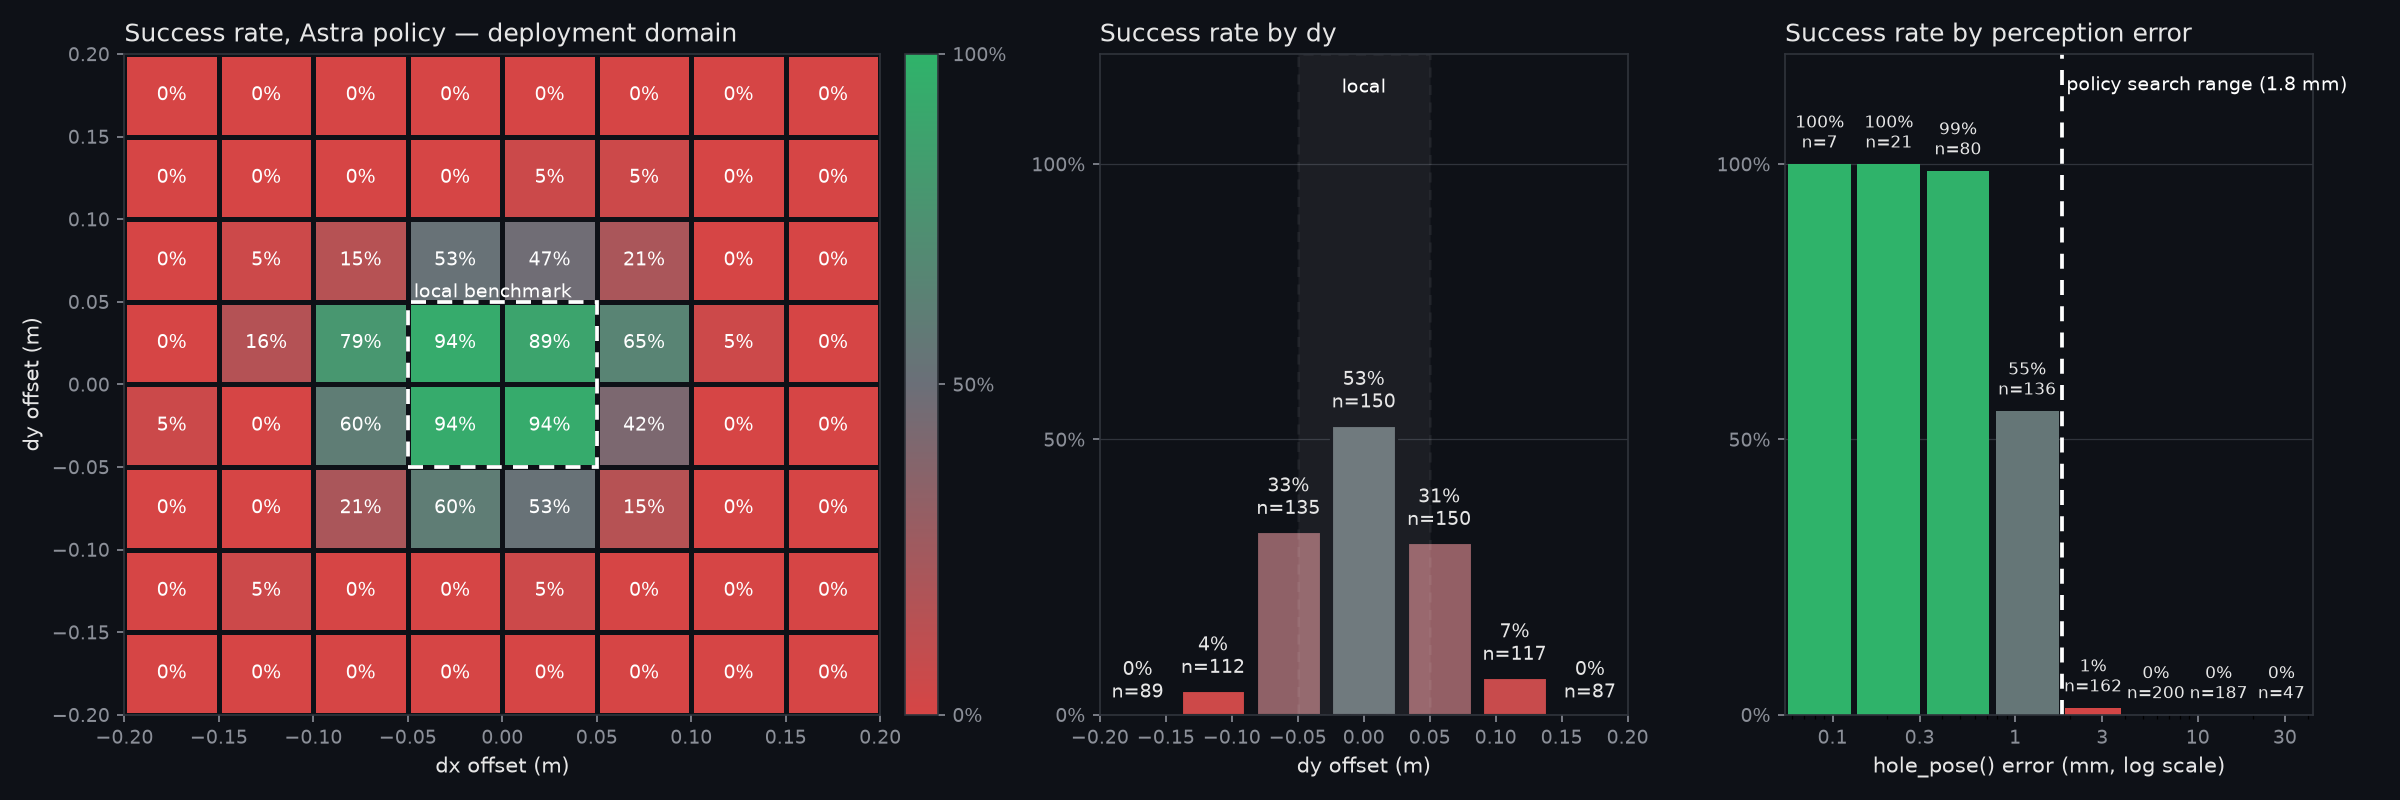
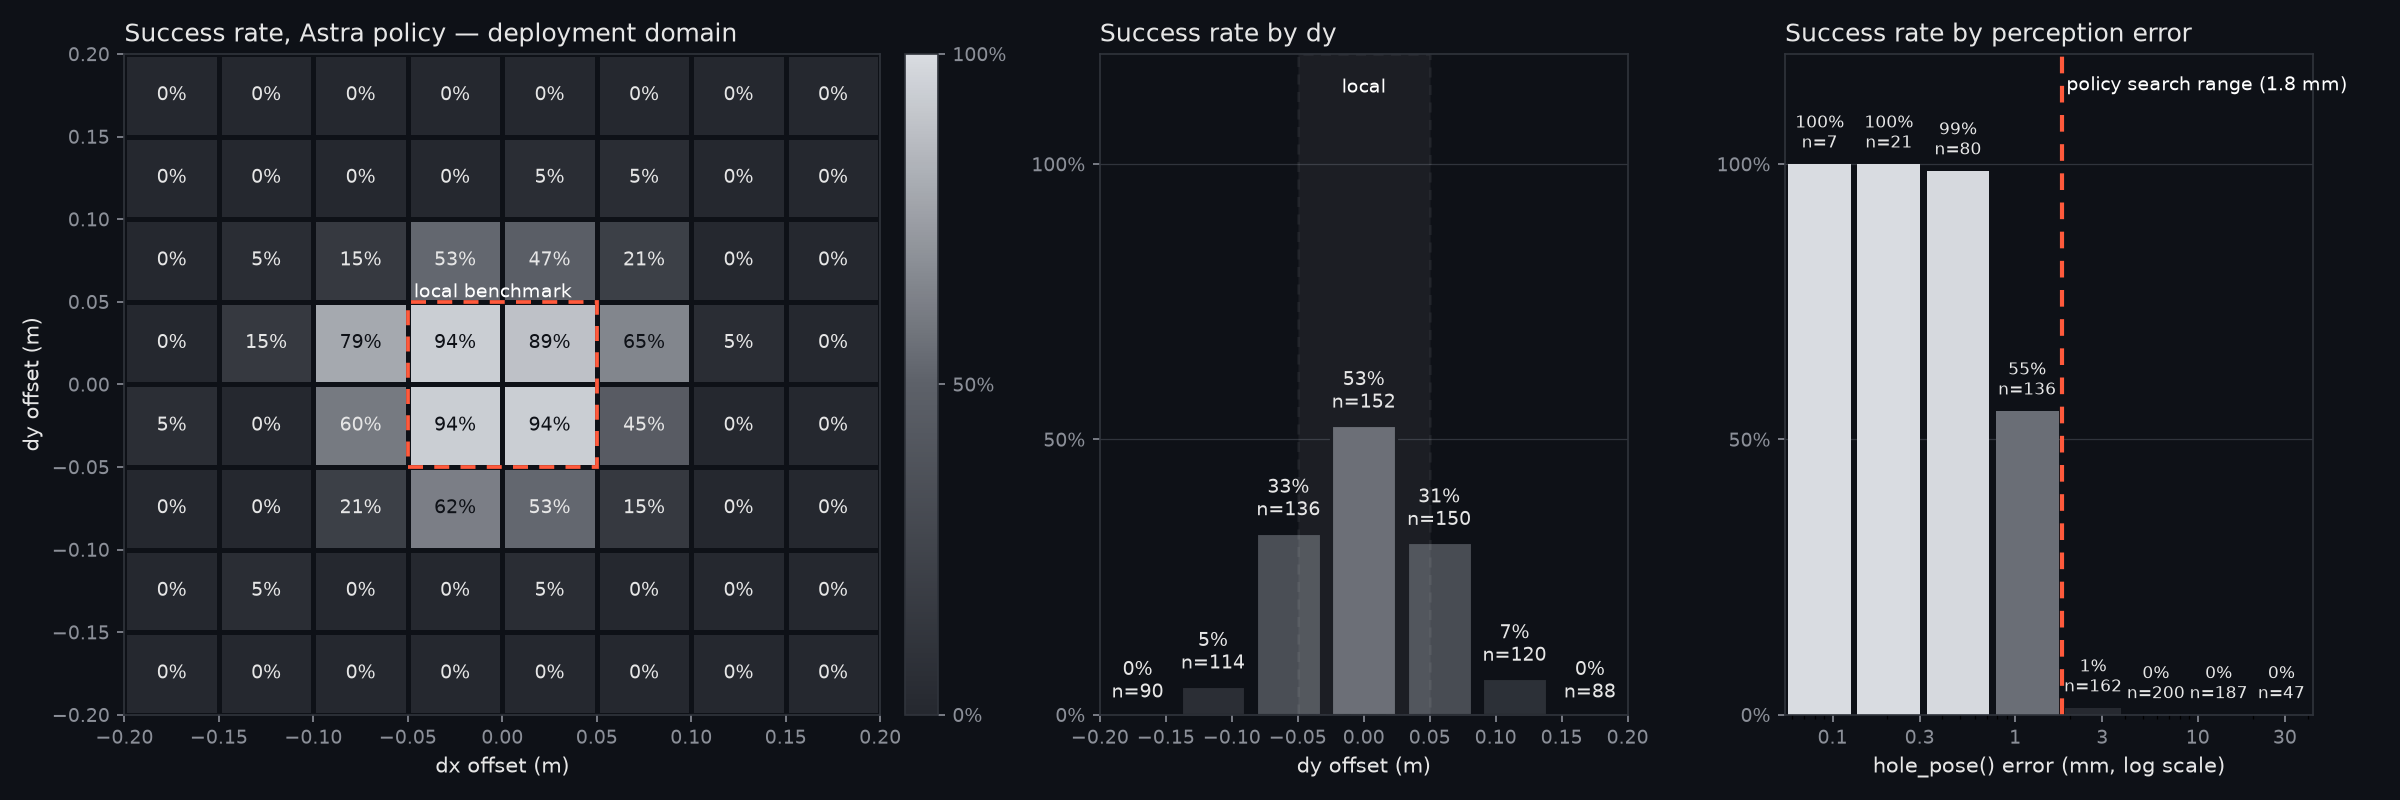
UI pass: hierarchy over symmetry (hero outside-box number, AIC pull-quote, axiom 1 subtitle), one accent colour, neutral heatmap, fewer boxes; Ditto first-attempt expander

Changed region(s): [[0.0312, 0.0625, 0.4062, 0.9062], [0.7188, 0.1875, 0.875, 0.9062], [0.4688, 0.5938, 0.6562, 0.9062]]

diff --git a/app/streamlit_app.py b/app/streamlit_app.py
@@ -35,22 +35,25 @@ st.markdown(
 [data-testid="stSidebar"], [data-testid="collapsedControl"] {display: none;}
 .block-container {padding-top: 1rem; padding-bottom: 1rem; max-width: 1280px;}
 h1 {margin-bottom: 0 !important; font-size: 2.3rem !important; padding-top: 0 !important;}
-p.gh-sub, .stMarkdown p.gh-sub {color: #e6e6e6; font-size: 1.25rem !important; margin: 0 0 .2rem 0;}
-p.gh-back, .stMarkdown p.gh-back {color: #c3c7cf; font-size: 1.1rem !important; margin-bottom: .6rem;}
-.gh-tile {background: #1a1d24; border-radius: 8px; padding: .7rem 1rem;}
+p.gh-sub, .stMarkdown p.gh-sub {color: #8b8f98; font-size: 1rem !important; margin: 0 0 .7rem 0;}
+.gh-pull {color: #e6e6e6; font-size: 1.3rem; line-height: 1.45; border-left: 3px solid #5d6169;
+          padding: .1rem 0 .1rem 1rem; margin: 0 0 1rem 0;}
+.gh-pull b {font-size: 1.55rem;}
+.gh-pull span {color: #8b8f98; font-size: 1rem;}
 .gh-tile .lbl {color: #8b8f98; font-size: .8rem; text-transform: uppercase; letter-spacing: .04em;}
-.gh-tile .val {font-size: 2.6rem; font-weight: 700; line-height: 1.1;}
+.gh-tile .val {font-size: 2rem; font-weight: 600; line-height: 1.1; color: #c3c7cf;}
+.gh-tile.hero .val {font-size: 4.2rem; font-weight: 700;}
 .gh-tile .n {color: #8b8f98; font-size: .8rem;}
 .gh-ph {background: #2a2d34; color: #8b8f98; border-radius: 8px; height: 170px;
         display: flex; align-items: center; justify-content: center; text-align: center; padding: 1rem;}
 .gh-report {font-size: 1rem; line-height: 1.55;}
 .gh-src {color: #8b8f98; font-size: .75rem;}
-.gh-foot {color: #8b8f98; font-size: .85rem; border-top: 1px solid #30343c; padding-top: .6rem; margin-top: .8rem;}
+.gh-foot {color: #8b8f98; font-size: .85rem; padding-top: .6rem; margin-top: .8rem;}
 video {max-height: 170px;}
-.gh-badge {color: #0e1117; font-weight: 600; border-radius: 4px; padding: 0 .35rem; font-size: .75rem;}
+.gh-badge {color: #e6e6e6; background: #30343c; font-weight: 600; border-radius: 4px; padding: 0 .35rem; font-size: .75rem;}
 .gh-cap {color: #8b8f98; font-size: .8rem; line-height: 1.5;}
-.gh-head {color: #e6e6e6; font-size: .95rem; border-left: 3px solid #d64545; padding: .2rem .6rem; margin: .3rem 0 .5rem 0;}
-.gh-quote {color: #e6e6e6; border-left: 3px solid #6b6f78; margin: 0 0 .6rem 0; padding: .2rem .7rem;}
+.gh-head {color: #e6e6e6; font-size: .95rem; margin: .3rem 0 .5rem 0;}
+.gh-quote {color: #e6e6e6; font-style: italic; margin: 0 0 .6rem 0; padding: 0;}
 .gh-quote span {color: #8b8f98; font-size: .8rem;}
 h3 {padding: .4rem 0 .3rem 0 !important;}
 </style>
@@ -58,15 +61,11 @@ h3 {padding: .4rem 0 .3rem 0 !important;}
     unsafe_allow_html=True,
 )
 
-GREEN, RED, GREY = "#2fb36a", "#d64545", "#8b8f98"
-# One fixed colour per failure mode (hex for badges, Streamlit colour name for radio labels).
-MODE_COLOR = {"miss": ("#d64545", "red"), "jam": ("#e0a030", "orange"), "collision": ("#a874d8", "violet"),
-              "timeout": ("#8b8f98", "gray"), "api_error": ("#5b5f68", "gray"), "": (GREEN, "green")}
+from analysis.coverage import ACCENT  # noqa: E402  the one accent colour; everything else is neutral
 
 
 def _badge(mode: str) -> str:
-    hexc = MODE_COLOR.get(mode, (GREY, "gray"))[0]
-    return f'<span class="gh-badge" style="background:{hexc}">{html.escape(mode or "success")}</span>'
+    return f'<span class="gh-badge">{html.escape(mode or "success")}</span>'
 
 
 def placeholder(msg: str) -> None:
@@ -290,10 +289,11 @@ def show_transcript(path) -> None:
             st.code(act, language="json", wrap_lines=True)
 
 
-def tile(col, label: str, value: float, n: int, color: str) -> None:
+def tile(col, label: str, value: float, n: int, hero: bool = False) -> None:
     v = "—" if pd.isna(value) else f"{value:.0%}"
-    col.markdown(f'<div class="gh-tile"><div class="lbl">{label}</div>'
-                 f'<div class="val" style="color:{color}">{v}</div><div class="n">n = {n}</div></div>',
+    style = f' style="color:{ACCENT}"' if hero else ""
+    col.markdown(f'<div class="gh-tile{" hero" if hero else ""}"><div class="lbl">{label}</div>'
+                 f'<div class="val"{style}>{v}</div><div class="n">n = {n}</div></div>',
                  unsafe_allow_html=True)
 
 
@@ -328,15 +328,16 @@ lb, db = default_boxes()
 rep = coverage_report(local_df, deploy_df, lb, db)
 
 st.title("GapHunter")
-st.markdown('<p class="gh-sub">Find where your benchmark stopped before the hidden eval does.</p>'
-            '<p class="gh-back">Intrinsic AIC 2026: our policy scored 141 on the local benchmark and 89 on '
-            'the hidden eval. The local scenes randomised the board over a radius about 1/3 smaller '
-            'than the real one.</p>', unsafe_allow_html=True)
+st.markdown('<p class="gh-sub">The goal of any robotics firm is to deploy a system with four-nines reliability '
+            'as cheaply as possible.</p>'
+            '<div class="gh-pull"><b>141 local → 89 hidden.</b> Intrinsic AIC 2026: one policy, scored on our own '
+            'benchmark and then on the hidden eval.<br><span>The local scenes randomised the board over a radius '
+            'about a third smaller than the real one.</span></div>', unsafe_allow_html=True)
 
-t1, t2, t3 = st.columns(3)
-tile(t1, "local success (in the benchmark)", rep["local_success"], rep["n_local"], GREEN)
-tile(t2, "deployment success", rep["deploy_success"], rep["n_deploy"], RED)
-tile(t3, "outside the local box", rep["outside_local_success"], rep["n_outside"], RED)
+t1, t2, t3 = st.columns([1.4, 1, 1])
+tile(t1, "success outside the local box", rep["outside_local_success"], rep["n_outside"], hero=True)
+tile(t2, "success inside the benchmark", rep["local_success"], rep["n_local"])
+tile(t3, "success over the deployment box", rep["deploy_success"], rep["n_deploy"])
 
 hm_path = RESULTS / ("heatmap.png" if source == "real" else "heatmap_fake.png")
 all_df = pd.concat([local_df, deploy_df], ignore_index=True)
@@ -360,7 +361,7 @@ with left:
                 f'local ∕ deployment ({rep["coverage_fraction_all_params"]:.1%} without yaw folding) · '
                 f'rates from the uniform pass only.</p>', unsafe_allow_html=True)
 with right:
-    if st.button("Re-run coverage", type="primary", help="Runs 10 new trials sampled over the deployment box."):
+    if st.button("Re-run coverage", type="secondary", help="Runs 10 new trials sampled over the deployment box."):
         try:
             new = rerun_coverage(10)
             st.session_state["extra"] = pd.concat(
@@ -382,8 +383,7 @@ with c2:
     fails = failure_clips(deploy_df, feat.get("failure_clip"))
     if len(fails) > 1:
         def _label(i):
-            m = str(fails[i].get("failure_mode") or "failure")
-            return f":{MODE_COLOR.get(m, (GREY, 'gray'))[1]}[● {m}] {i + 1}"
+            return f"{fails[i].get('failure_mode') or 'failure'} {i + 1}"
         pick = st.radio("Failure clip", range(len(fails)), format_func=_label, horizontal=True,
                         label_visibility="collapsed")
         bad_row = fails[pick]
@@ -406,6 +406,31 @@ with c3:
                         unsafe_allow_html=True)
         show_transcript((feat.get("failure_transcript") if is_featured else None)
                         or (bad_row or {}).get("transcript"))
+
+ditto_clip = _resolve(feat.get("ditto_clip"))
+with st.expander("First attempt: Astra driving the Franka live"):
+    d1, d2 = st.columns([1, 2], gap="medium")
+    with d1:
+        if ditto_clip:
+            st.video(str(ditto_clip))
+            steps = []
+            try:
+                tp = _resolve(feat.get("ditto_transcript"))
+                steps = _transcript(str(tp), _mtime(tp)) if tp else []
+            except Exception:
+                pass
+            secs = sum((x.get("elapsed_s") or 0) for x in steps if isinstance(x, dict))
+            st.markdown(f'<p class="gh-cap">Ditto Bench sphere-in-basket, nominal placement (dx = dy = yaw = 0), '
+                        f'seed 1 · {len(steps)} Astra decisions · {secs:.0f} s of model time</p>',
+                        unsafe_allow_html=True)
+        else:
+            placeholder("Ditto clip not found.")
+    with d2:
+        st.markdown("Astra first drove a Franka on Ditto Bench one decision at a time, from camera images, and "
+                    "failed all 6 gate trials at the nominal placement, inside the local box. Each trial took "
+                    "about 3 minutes, too slow to sample a deployment domain, so we switched to a policy Astra "
+                    "writes once and that runs in MuJoCo in under 2 seconds per trial.")
+        show_transcript(feat.get("ditto_transcript"))
 
 st.markdown(
     '<div class="gh-foot">'

diff --git a/analysis/coverage.py b/analysis/coverage.py
@@ -25,6 +25,8 @@ _DEPLOY_BOX = {"dx": (-0.20, 0.20), "dy": (-0.20, 0.20), "yaw": (-90.0, 90.0)}
 BG = "#0e1117"
 INK = "#e6e6e6"
 MUTED = "#8b8f98"
+# The one accent: reserved for the outside-box number, the local-box rectangle and the search-range line.
+ACCENT = "#ff5a3c"
 
 
 def default_boxes() -> tuple[dict, dict]:
@@ -201,8 +203,8 @@ def coverage_report(local_df, deploy_df, local_box=None, deploy_box=None, params
 
 def _cmap():
     from matplotlib.colors import LinearSegmentedColormap
-    # red -> neutral grey -> green; the midpoint carries no hue.
-    return LinearSegmentedColormap.from_list("gap", ["#d64545", "#6b6f78", "#2fb36a"])
+    # Neutral sequential: 0% sits near the surface, 100% is light. Colour is kept for the accent only.
+    return LinearSegmentedColormap.from_list("gap", ["#25282f", "#5d6169", "#d9dce1"])
 
 
 def _error_panel(ax, df, succ, cmap, col, search_mm, per_side=4) -> None:
@@ -246,7 +248,7 @@ def _error_panel(ax, df, succ, cmap, col, search_mm, per_side=4) -> None:
     ticks = [t for t in (0.03, 0.1, 0.3, 1, 3, 10, 30) if edges[0] <= t <= edges[-1]]
     ax.set_xticks(ticks, [f"{t:g}" for t in ticks])
     ax.xaxis.set_minor_formatter(plt.NullFormatter())
-    ax.axvline(search_mm, color="white", linestyle=(0, (4, 3)), linewidth=1.8)
+    ax.axvline(search_mm, color=ACCENT, linestyle=(0, (4, 3)), linewidth=2)
     ax.text(search_mm * 1.06, 1.16, f"policy search range ({search_mm:g} mm)", color="white", fontsize=9,
             ha="left", va="top")
 
@@ -309,10 +311,11 @@ def heatmap(df, x="dx", y="dy", local_box=None, path="results/heatmap.png", depl
         for c in range(bins):
             if n[r, c] >= 2:
                 ax.text((xe[c] + xe[c + 1]) / 2, (ye[r] + ye[r + 1]) / 2, f"{rate[r, c]:.0%}",
-                        ha="center", va="center", fontsize=9, color="white")
+                        ha="center", va="center", fontsize=9,
+                        color=BG if rate[r, c] > 0.6 else INK)
     llx, lhx = _range(local_box, x)
     lly, lhy = _range(local_box, y)
-    ax.add_patch(Rectangle((llx, lly), lhx - llx, lhy - lly, fill=False, edgecolor="white",
+    ax.add_patch(Rectangle((llx, lly), lhx - llx, lhy - lly, fill=False, edgecolor=ACCENT,
                            linestyle=(0, (4, 3)), linewidth=1.8))
     ax.text(llx, lhy, " local benchmark", color="white", fontsize=9, va="bottom", ha="left")
     ax.set_xlim(xlo, xhi)
